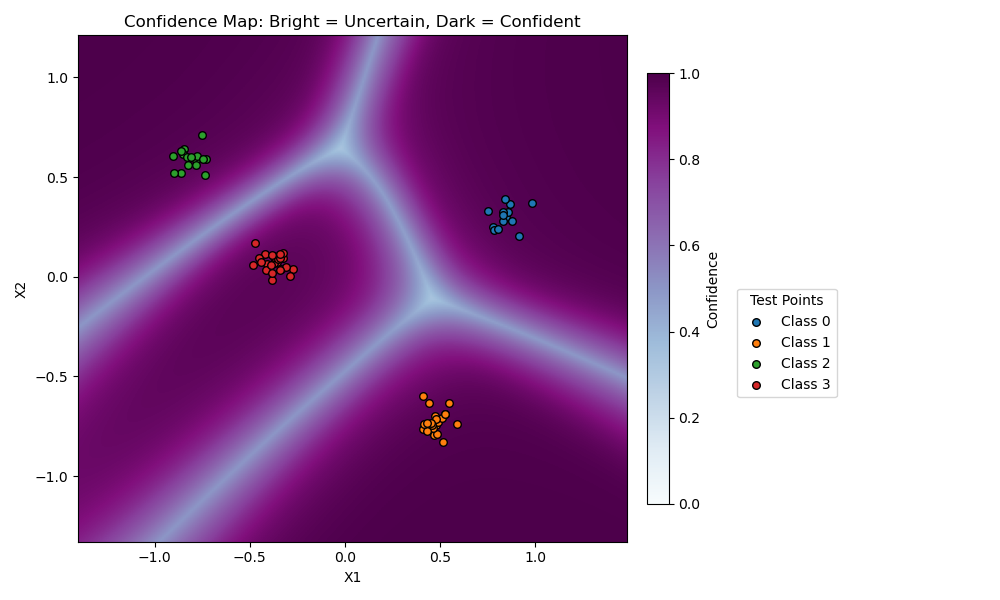
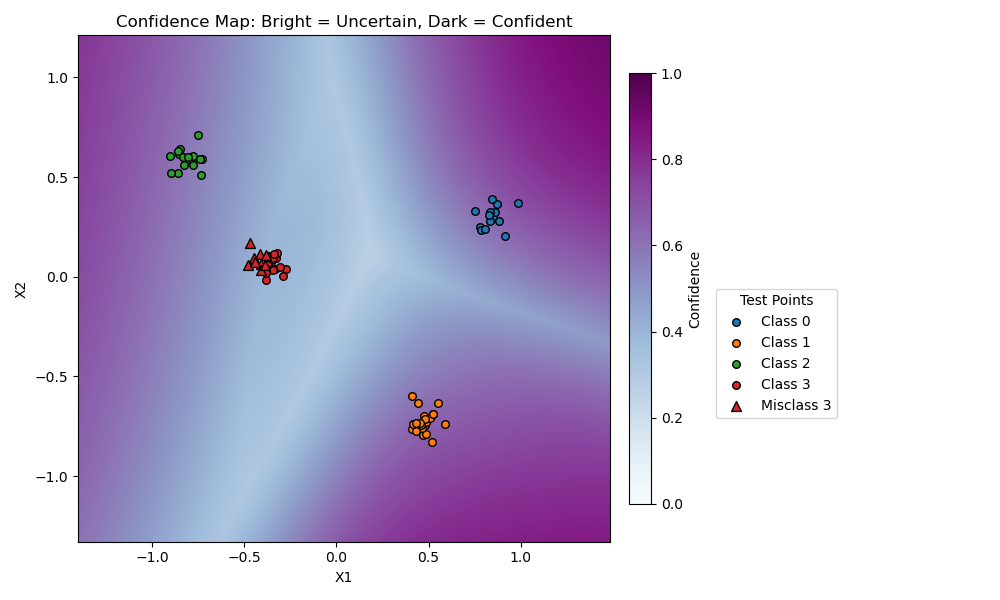
naive 2D updates, new jacobian calculation, new model and results

diff --git a/models/fcmodel.py b/models/fcmodel.py
@@ -4,21 +4,19 @@ import torch
 import numpy as np
 
 from utils import compute_loss_jacobian_params_classifier, compute_model_jacobian_params_classifier, get_param_vector_tools
-from torch.func import functional_call
+from torch.func import functional_call, jacrev, vmap
 
 class FC_2D_Net(nn.Module):
-    def __init__(self, hidden_units=64, n_classes=4):
+    def __init__(self, hidden_units=16, n_classes=4):
         super(FC_2D_Net, self).__init__()
 
         # Fully Connected Layers
         self.fc1 = nn.Linear(2, hidden_units)
-        self.fc2 = nn.Linear(hidden_units, hidden_units)
-        self.fc3 = nn.Linear(hidden_units, n_classes)
+        self.fc2 = nn.Linear(hidden_units, n_classes)
 
     def forward(self, x):
         x = F.relu(self.fc1(x))
-        x = F.relu(self.fc2(x))
-        x = self.fc3(x)  # Raw logits
+        x = self.fc2(x)
         return x
     
 def compute_q_lla(model, x_train, y_train, alpha=2.0):
@@ -69,7 +67,7 @@ def compute_q_lla(model, x_train, y_train, alpha=2.0):
 
     return theta_map, covariance
 
-def compute_q_proj(model, x_train, y_train, alpha=10.0):
+def compute_q_proj(model, x_train, y_train):
     """
     Computes the q_proj posterior for a trained classifier model using the null space of the GGN matrix.
     
@@ -95,7 +93,17 @@ def compute_q_proj(model, x_train, y_train, alpha=10.0):
     probs = torch.softmax(logits, dim=1)         # (N, O)
     O = probs.shape[1]
 
-    J = compute_model_jacobian_params_classifier(model, x_train)
+    params = dict(model.named_parameters())
+    params_vec, unflatten_params = get_param_vector_tools(params)
+    x_train, y_train = x_train.to(params_vec.device), y_train.to(params_vec.device)
+    # Per-example model output
+    def single_output(params_vec, x_i):
+        out = functional_call(model, unflatten_params(params_vec), (x_i.unsqueeze(0),))
+        return out.squeeze(0)  # Remove batch dimension
+
+    # Now vmap over batch
+    J = vmap(jacrev(single_output), in_dims=(None, 0))(params_vec, x_train)
+    J = J.reshape(-1, J.shape[-1]) # (N·O, P) where P is the number of parameters
     print("Max Jacobian:", torch.max(J).item())
     print("Min Jacobian:", torch.min(J).item())
 
@@ -121,6 +129,13 @@ def compute_q_proj(model, x_train, y_train, alpha=10.0):
     print(f"Number of null space dimensions: {null_mask.sum().item()} / {eigenvalues.numel()}")
     I_p = torch.eye(GGN.shape[0])
     projection_matrix = I_p - (V @ (1 - null_mask)) @ V.T
+    P = theta_map.shape[0]
+    alpha_up = torch.dot(theta_map, theta_map)
+    trace_proj = torch.trace(projection_matrix)
+    alpha_down = P - trace_proj
+    alpha = alpha_up / alpha_down
+    print(f"Trace of projection: {trace_proj.item():.4e}")
+    print(f"Optimal alpha: {alpha.item():.4f}")
     projected_covariance = (1.0 / alpha) * projection_matrix
 
     print("Projected Covariance Diagonal Min:", torch.min(projected_covariance.diagonal()).item())
@@ -128,7 +143,7 @@ def compute_q_proj(model, x_train, y_train, alpha=10.0):
 
     return theta_map, projected_covariance
 
-def compute_q_loss(model, x_train, y_train, alpha=10.0):
+def compute_q_loss(model, x_train, y_train):
     """
     Computes the q_loss posterior for a trained classifier model using the null space of the stacked loss gradients.
 
@@ -144,9 +159,17 @@ def compute_q_loss(model, x_train, y_train, alpha=10.0):
         loss_projected_covariance: Approximate posterior covariance using the loss-projection method.
     """
     theta_map = torch.nn.utils.parameters_to_vector(model.parameters()).detach()
-    criterion = nn.CrossEntropyLoss(reduction='sum')
+    criterion = nn.CrossEntropyLoss(reduction='none')
+    params = dict(model.named_parameters())
+    params_vec, unflatten_params = get_param_vector_tools(params)
+    x_train, y_train = x_train.to(params_vec.device), y_train.to(params_vec.device)
+    # Per-example scalar loss function
+    def single_loss(params_vec, x_i, y_i):
+        out = functional_call(model, unflatten_params(params_vec), (x_i.unsqueeze(0),))
+        return criterion(out, y_i.unsqueeze(0))[0]
 
-    J_L_theta = compute_loss_jacobian_params_classifier(model, x_train, y_train, criterion)
+    # Now vmap over batch
+    J_L_theta = vmap(jacrev(single_loss), in_dims=(None, 0, 0))(params_vec, x_train, y_train)
     print("Max Jacobian:", torch.max(J_L_theta).item())
     print("Min Jacobian:", torch.min(J_L_theta).item())
 
@@ -158,10 +181,17 @@ def compute_q_loss(model, x_train, y_train, alpha=10.0):
     print("Eigenvalues Min:", torch.min(eigenvalues).item())
     print("Eigenvalues Max:", torch.max(eigenvalues).item())
 
-    null_mask = (eigenvalues <= (1e-2 + 1)).float() 
+    null_mask = (eigenvalues <= (1e-2 + 1)).float().to(A.device)
     print(f"Number of null space dimensions: {null_mask.sum().item()} / {eigenvalues.numel()}")
-    I_p = torch.eye(A.shape[0])
+    I_p = torch.eye(A.shape[0]).to(A.device)
     projection_matrix = I_p - (V @ (1 - null_mask) @ V.T)
+    P = theta_map.shape[0]
+    alpha_up = torch.dot(theta_map, theta_map)
+    trace_proj = torch.trace(projection_matrix)
+    alpha_down = P - trace_proj
+    alpha = alpha_up / alpha_down
+    print(f"Trace of projection: {trace_proj.item():.4e}")
+    print(f"Optimal alpha: {alpha.item():.4f}")
     projected_covariance = (1.0 / alpha) * projection_matrix
 
     print("Projected Covariance Diagonal Min:", torch.min(projected_covariance.diagonal()).item())

diff --git a/naive_inference.py b/naive_inference.py
@@ -121,7 +121,7 @@ def projected_posterior_inference_2D_classifier(model, train_dataset, test_datas
     mean_probs_pred, var_pred = fcmodel.bayesian_prediction(model, theta_samples, x_test)
     y_test_pred = np.argmax(mean_probs_pred, axis=1)
     
-    metrics = save_metrics_classification(y_test_pred_map, y_test_pred, mean_probs_pred, var_pred, y_test_true.detach().numpy(), f"{METRICS_PATH}2Dclassifier_proj_metrics.json")
+    metrics = save_metrics_classification(y_test_pred_map, mean_probs_pred, y_test_true.detach().numpy(), f"{METRICS_PATH}2Dclassifier_proj_metrics.json")
 
     plot_2D_decision_boundary_entropy(model, theta_samples, x_test, y_test_true, mean_probs_pred, save_path=f"{DECISION_BOUNDARIES_PATH}Decision_boundary_proj_entropy.png")
     plot_2D_decision_boundary_confidence(model, theta_samples, x_test, y_test_true, mean_probs_pred, save_path=f"{DECISION_BOUNDARIES_PATH}Decision_boundary_proj_confidence.png")
@@ -179,11 +179,12 @@ def loss_posterior_inference_2D_classifier(model, train_dataset, test_dataset):
     
     x_test = test_dataset[:][0]
     y_test_true = test_dataset[:][1]
-    y_test_pred_map = torch.nn.functional.softmax(model(x_test), dim=1).detach().numpy()
+    x_test, y_test_true = x_test.to(theta_map.device), y_test_true.to(theta_map.device)
+    y_test_pred_map = torch.nn.functional.softmax(model(x_test), dim=1).detach().cpu().numpy()
     mean_probs_pred, var_pred = fcmodel.bayesian_prediction(model, theta_samples, x_test)
     y_test_pred = np.argmax(mean_probs_pred, axis=1)
     
-    metrics = save_metrics_classification(y_test_pred_map, y_test_pred, mean_probs_pred, var_pred, y_test_true.detach().numpy(), f"{METRICS_PATH}2Dclassifier_loss_metrics.json")
+    metrics = save_metrics_classification(y_test_pred_map, mean_probs_pred, y_test_true.detach().cpu().numpy(), f"{METRICS_PATH}2Dclassifier_loss_metrics.json")
 
     plot_2D_decision_boundary_entropy(model, theta_samples, x_test, y_test_true, mean_probs_pred, save_path=f"{DECISION_BOUNDARIES_PATH}Decision_boundary_loss_entropy.png")
     plot_2D_decision_boundary_confidence(model, theta_samples, x_test, y_test_true, mean_probs_pred, save_path=f"{DECISION_BOUNDARIES_PATH}Decision_boundary_loss_confidence.png")

diff --git a/experiments.py b/experiments.py
@@ -47,14 +47,14 @@ def run_naive_2d_classification_experiment():
 
     model = fcmodel.FC_2D_Net(n_classes=4)
     if not os.path.exists(FC_2D_MODEL_PATH):
-        train_classifier(model=model, train_data=train_loader, save_path=FC_2D_MODEL_PATH)
+        train_classifier(model=model, train_data=train_loader, save_path=FC_2D_MODEL_PATH, num_epochs=5)
     else:
         model.load_state_dict(torch.load(FC_2D_MODEL_PATH))
     
     model.eval()
     plot_2D_decision_boundary_MAP(model, test_dataset)
 
-    lla_inference_2D_classifier(model, train_dataset, test_dataset)
+    #lla_inference_2D_classifier(model, train_dataset, test_dataset)
     projected_posterior_inference_2D_classifier(model, train_dataset, test_dataset)
     loss_posterior_inference_2D_classifier(model, train_dataset, test_dataset)
 
